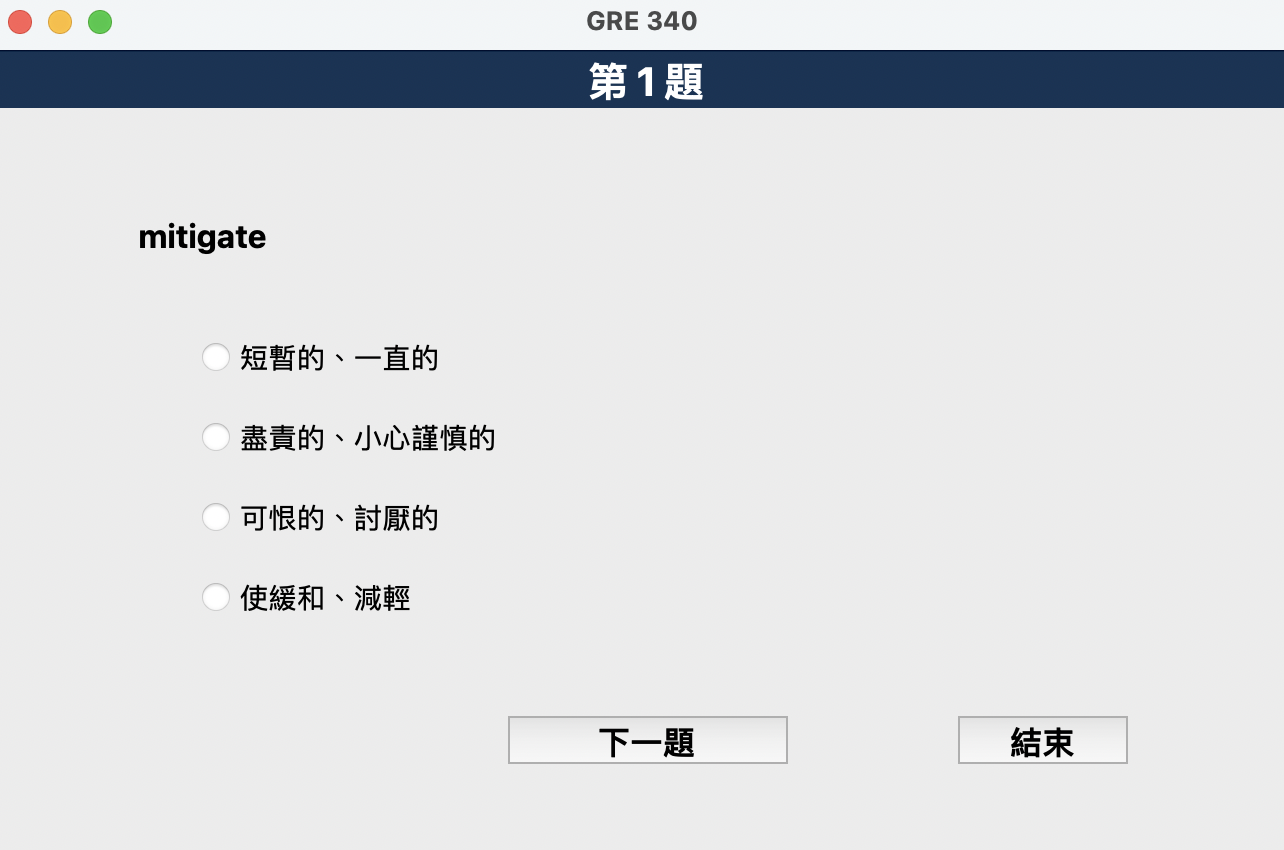
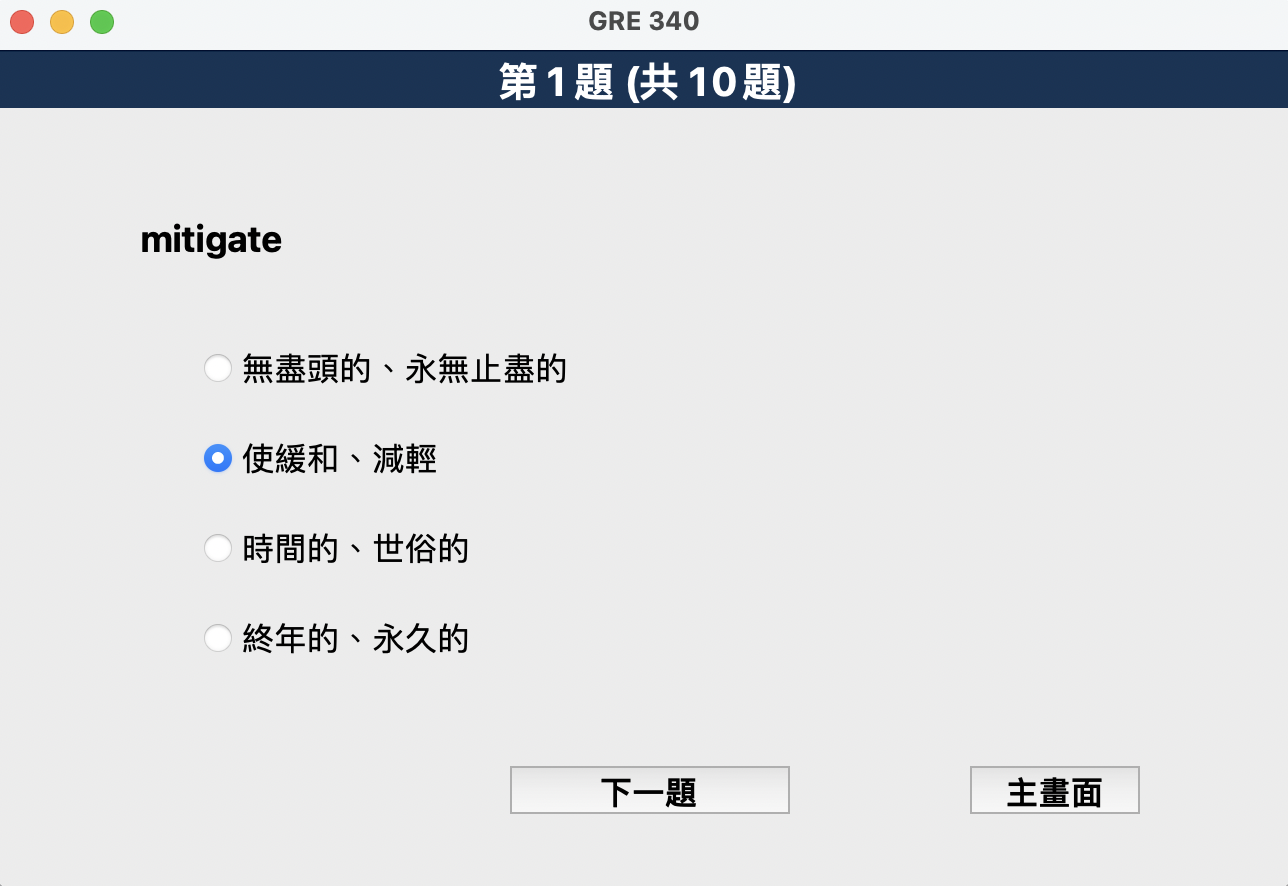
Add files via upload

diff --git a/gre340.py b/gre340.py
@@ -35,18 +35,74 @@ def generate_gre(question, answer, num,  mode):
 class GRE340:
 
     def __init__(self):
+        self.display_mainpage()
+
+    def display_mainpage(self):
+        for widget in gui.winfo_children(): widget.destroy()
+
+        self.display_input()
+        self.display_easter()
+
+        title = Label(gui, text="Mason 1000", width=50, bg="#123456",fg="white", font=("ariel",20,"bold"))
+        title.place(x=0, y=0)
+
+        start_button = Button(gui, text="開始",command=self.start_btn, width=10, font=("ariel",16,"bold"))  
+        start_button.place(x=255,y=355)
+         
+        quit_button = Button(gui, text="結束", command=gui.destroy, width=5, font=("ariel",16," bold"))
+        quit_button.place(x=485,y=355)
+
+    def start_btn(self):
+        for widget in gui.winfo_children(): widget.destroy()
+
+        with open(data_json) as f: data = json.load(f)
+        english, chinese = data["english"], data["chinese"]
+
+        NUM = int(self.num.get()) if self.num.get().isdigit() == True else 10
+        MODE = "R" if self.mode.get() == "R" else "N"
+
+        if self.language.get() == "C": QUESTION,ANSWER = chinese,english
+        else: QUESTION,ANSWER = english,chinese
+        self.question,self.answer,self.options = generate_gre(QUESTION, ANSWER, NUM, MODE)   
 
         self.q_no = 0
         self.display_title()
+        self.display_easter()
         self.display_question()
         self.opt_selected = IntVar()
         self.opts = self.radio_buttons()
         self.display_options()
         self.buttons()
-        self.data_size = len(question)
-        self.correct = 0
+        self.data_size = len(self.question)
+        self.correct = 0     
+
+    def display_input(self):
+
+        self.num, self.mode, self.language = StringVar(), StringVar(), StringVar()
+
+        label_num = Label(gui, text="Number of Questions? (default: 10)", font=("ariel",16,"bold"))
+        label_num.place(x=100, y=85)
+        label_num = Label(gui, text="Please enter a number: ", font=("ariel",16))
+        label_num.place(x=100, y=115)
+        input_num = Entry(gui, width=16, textvariable=self.num)
+        input_num.place(x=300, y=115)
+ 
+        label_mode = Label(gui, text="Question in Normal or Random order? (default: Normal)", font=("ariel",16,"bold"))
+        label_mode.place(x=100, y=165)
+        label_mode = Label(gui, text="Please enter \"N\" or \"R\": ", font=("ariel",16))
+        label_mode.place(x=100, y=195)
+        input_mode = Entry(gui, width=16, textvariable=self.mode)
+        input_mode.place(x=300, y=195)
+
+        label_language = Label(gui, text="Question is in English or Chinese? (default: English)", font=("ariel",16,"bold"))
+        label_language.place(x=100, y=245)
+        label_language = Label(gui, text="Please enter \"E\" or \"C\": ", font=("ariel",16))
+        label_language.place(x=100, y=275)
+        input_language = Entry(gui, width=16, textvariable=self.language)
+        input_language.place(x=300, y=275) 
 
     def display_result(self):
+        for widget in gui.winfo_children(): widget.destroy()
          
         wrong_count = self.data_size - self.correct
         correct = f"Correct: {self.correct}"
@@ -59,19 +115,19 @@ class GRE340:
  
     def check_ans(self, q_no):
 
-        if self.opt_selected.get() == answer[q_no]: return True
+        if self.opt_selected.get() == self.answer[q_no]: return True
  
     def next_btn(self):
 
         if self.check_ans(self.q_no): self.correct += 1
-        else: mb.showinfo("Wrong", f"{question[self.q_no]} {options[self.q_no][answer[self.q_no]-1]}")
+        else: mb.showinfo("Wrong", f"{self.question[self.q_no]} {self.options[self.q_no][self.answer[self.q_no]-1]}")
          
         self.q_no += 1
         self.display_title()
          
         if self.q_no == self.data_size:
             self.display_result()
-            gui.destroy()
+            self.display_mainpage()
         else:
             self.display_question()
             self.display_options()
@@ -81,27 +137,31 @@ class GRE340:
         next_button = Button(gui, text="下一題",command=self.next_btn, width=10, font=("ariel",16,"bold"))  
         next_button.place(x=255,y=355)
          
-        quit_button = Button(gui, text="結束", command=gui.destroy, width=5, font=("ariel",16," bold"))
+        quit_button = Button(gui, text="主畫面", command=self.display_mainpage, width=5, font=("ariel",16," bold"))
         quit_button.place(x=485,y=355)
  
     def display_options(self):
         val = 0
         self.opt_selected.set(0)
          
-        for option in options[self.q_no]:
+        for option in self.options[self.q_no]:
             self.opts[val]['text'] = option
             val += 1
  
     def display_question(self):
          
-        q_no = Label(gui, text=question[self.q_no], width=60, font=('ariel',18,'bold'), anchor= 'w' )
+        q_no = Label(gui, text=self.question[self.q_no], width=60, font=('ariel',18,'bold'), anchor= 'w' )
         q_no.place(x=70, y=80)
  
     def display_title(self):
          
-        title = Label(gui, text="第{}題 (共{}題)".format(self.q_no+1,NUM), width=50, bg="#123456",fg="white", font=("ariel",20,"bold"))
+        title = Label(gui, text="第{}題 (共{}題)".format(self.q_no+1,len(self.question)), width=50, bg="#123456",fg="white", font=("ariel",20,"bold"))
         title.place(x=0, y=0)
- 
+
+    def display_easter(self):
+        title = Label(gui, text="Made by 狗狗 & 歐拉", width=50, bg="#123456",fg="white", font=("ariel",20,"bold"))
+        title.place(x=0, y=450)
+
     def radio_buttons(self):
          
         q_list = []
@@ -116,27 +176,14 @@ class GRE340:
 
         return q_list
 
-
-with open('mason_1000.json') as f: data = json.load(f)
-english, chinese = data["english"], data["chinese"]
-
-input_num = input("\nNumber of Questions? (default: 10)\nPlease enter number: ")
-input_mode = input("\nQuestion in Normal or Random order? (default: Normal)\nPlease enter \"N\" or \"R\": ")
-input_language = input("\nQuestion is in English or Chinese? (default: English)\nPlease enter \"E\" or \"C\": ")
-
-NUM = int(input_num) if input_num.isdigit() == True else 10
-MODE = "R" if input_mode == "R" else "N"
-
-if input_language == "C": QUESTION,ANSWER = chinese,english
-else: QUESTION,ANSWER = english,chinese
-
-
-question,answer,options = generate_gre(QUESTION, ANSWER, NUM, MODE)   
-
 gui = Tk()
 gui.title("GRE 340")
 gui.geometry("650x420")
-gui.resizable(False, False)
+gui.minsize(650,420)
+gui.maxsize(650,479)
+gui.resizable(False, True)
+
+data_json = "Mason_1000.json" # 1097
 
 GRE340()
 gui.mainloop()
